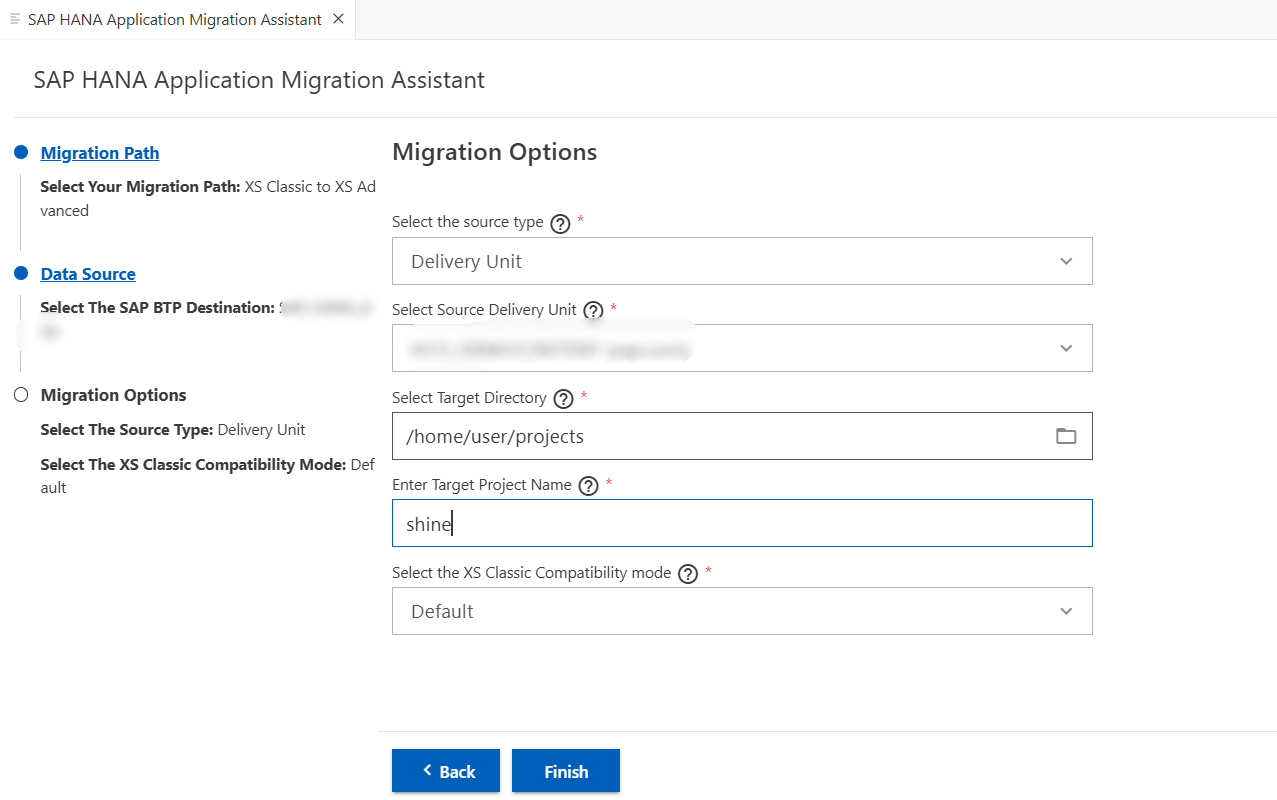
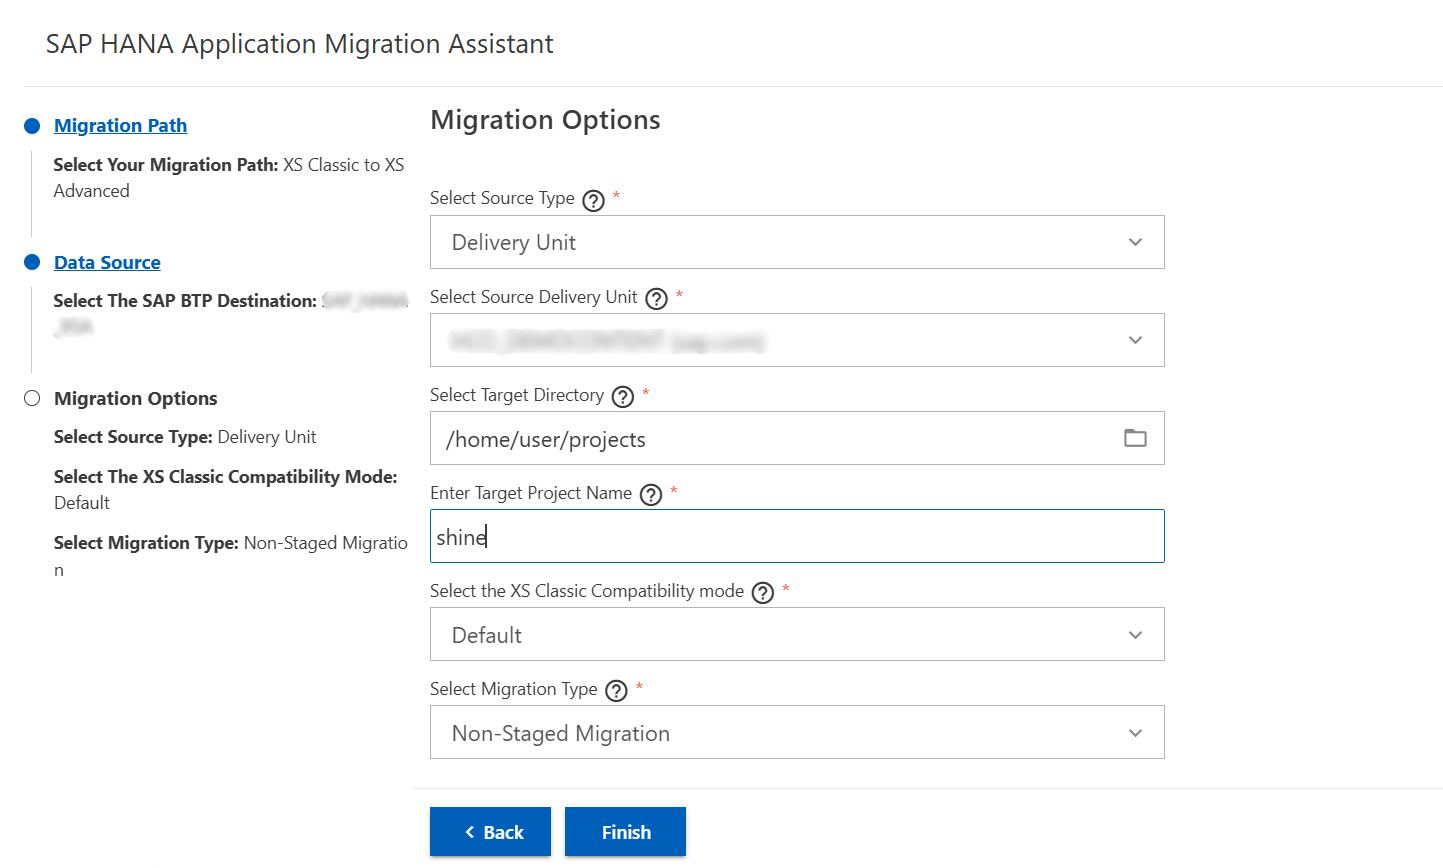
staged migration changes updated in README.md

diff --git a/README.md b/README.md
@@ -164,7 +164,7 @@ And the following additional properties:
 <img width="545" alt="selectType" src="images\SourceXSCtoXSA.png">
 </p>
   
-7. Enter the name of your Source Delivery Unit in this case, it would be `HCO_DEMOCONTENT` or Source Package Name which will be `sap.hana.democontent.epm.data:true`. 	
+6. Enter the name of your Source Delivery Unit in this case, it would be `HCO_DEMOCONTENT` or Source Package Name which will be `sap.hana.democontent.epm.data:true`. 	
 
 <p align="center">
 <img width="545" alt="DU1" src="images\DUSource.png">
@@ -175,7 +175,7 @@ And the following additional properties:
 </p>
 
 
-8. Choose the target directory. This is where the migration results will be stored.
+7. Choose the target directory. This is where the migration results will be stored.
    
    **Note:** Ensure that the directory you select is a sub-directory of `/home/user/projects`.	
 
@@ -183,13 +183,13 @@ And the following additional properties:
 <img width="545" alt="DU2" src="images\DeliveryUnit2.png">
 </p>
 
-9. Specify a unique name for the Target Folder, where the migration results will be saved. Once you've entered the name, click on Finish.
+8. Specify a unique name for the Target Folder, where the migration results will be saved. Once you've entered the name, click on Finish.
 
 <p align="center">
 <img width="545" alt="end" src="images\DeliveryUnit3.png">
 </p>
 
-10. Select the XSC Compatilibity Mode by setting it to True or False or leave it as it is to Default.
+9. Select the XSC Compatilibity Mode by setting it to True or False or leave it as it is to Default.
 
 <p align="center">
 <img width="545" alt="end" src="images\xscCompatibilityMode.png">
@@ -202,7 +202,31 @@ In the SAP HANA Application Migration Assistant, the UI provides a drop down wit
  	<li>False: Sets the value to false and adopts the native XSA behaviour</li>
   	<li>Default: Retain the existing values for all CVs</li>
 
-11. Once you see the pop-up notification at the bottom right corner of your screen, it means that the migration process is underway. This notification will keep you updated on all the steps that follow. At the end of the process, a XS Advanced project with the revised database artifacts will be created. Additionally, a `report.html` file will be generated within the project. This file contains detailed information about your project's migration.
+10. Select Migration type. By default, "Non-staged Migration" is chosen. In case if we have dependent objects outside our application like an external hdi container or schema, we need to migrate via staged migration. For further information, please refer [Staged Migration](https://help.sap.com/docs/SAP_HANA_PLATFORM/58d81eb4c9bc4899ba972c9fe7a1a115/954fd85b616b48a9b09a2f9b471eef41.html).
+
+<p align="center">
+<img width="545" alt="end" src="images\stagedMigration1.png">
+</p>
+
+11. If non-staged migration is selected, no other further steps are required. Click Finish. In case staged migration is selected, a new prompt appears to check whether we need to upload a configuration file including external dependencies or not. Choose "Yes" or "No" accordingly. By default, "No" will be selected.
+
+<p align="center">
+<img width="545" alt="end" src="images\stagedMigration1.png">
+</p>
+
+12. If you choose "No", no further steps are required. Click "Finish" button.
+
+13. If you choose "Yes", the prompt to browse configuration file must be visible. Choose the appropriate configuration file from the devspace. Choose a valid json file for the configuration file in the devspace. Once the valid json file is selected, we should be able to see the preview of the configuration file. Click "Finish" button.
+
+<p align="center">
+<img width="545" alt="end" src="images\stagedMigration3.png">
+</p>
+
+<p align="center">
+<img width="545" alt="end" src="images\stagedMigration4.png">
+</p>
+
+14. Once you see the pop-up notification at the bottom right corner of your screen, it means that the migration process is underway. This notification will keep you updated on all the steps that follow. At the end of the process, a XS Advanced project with the revised database artifacts will be created. Additionally, a `report.html` file will be generated within the project. This file contains detailed information about your project's migration.
 
 <p align="center">
 <img width="545" alt="end" src="images\end.png">
